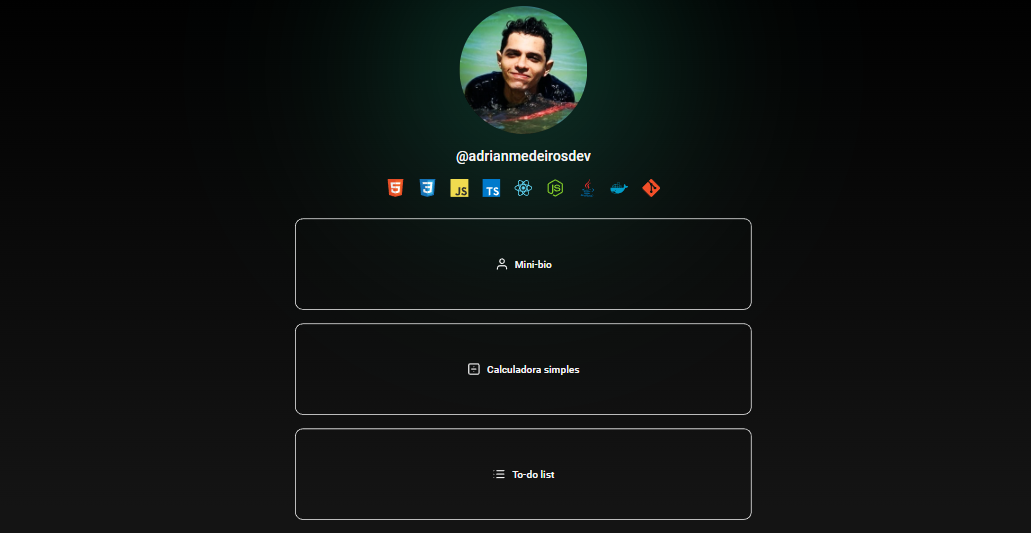
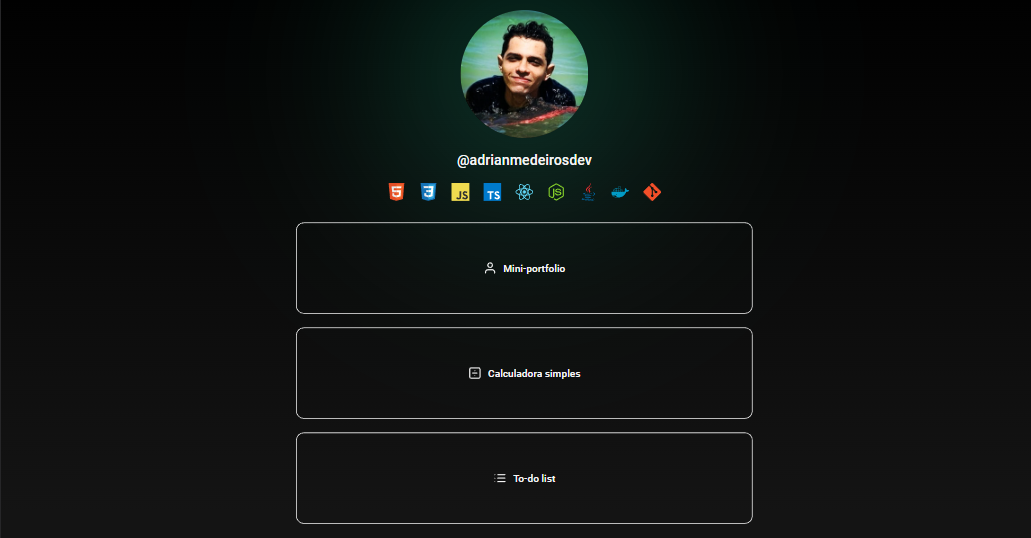
finish

diff --git a/index.html b/index.html
@@ -38,7 +38,7 @@
         <a href="https://github.com/adrianmedeirosdev/mini-bio">
           <button class="btn-project-link">
             <i class="project-icon" data-feather="user"></i>
-            Mini-bio
+            Mini-portfolio
           </button>
         </a>
         <a href="https://adrianmedeirosdev.github.io/simple-calculator">
